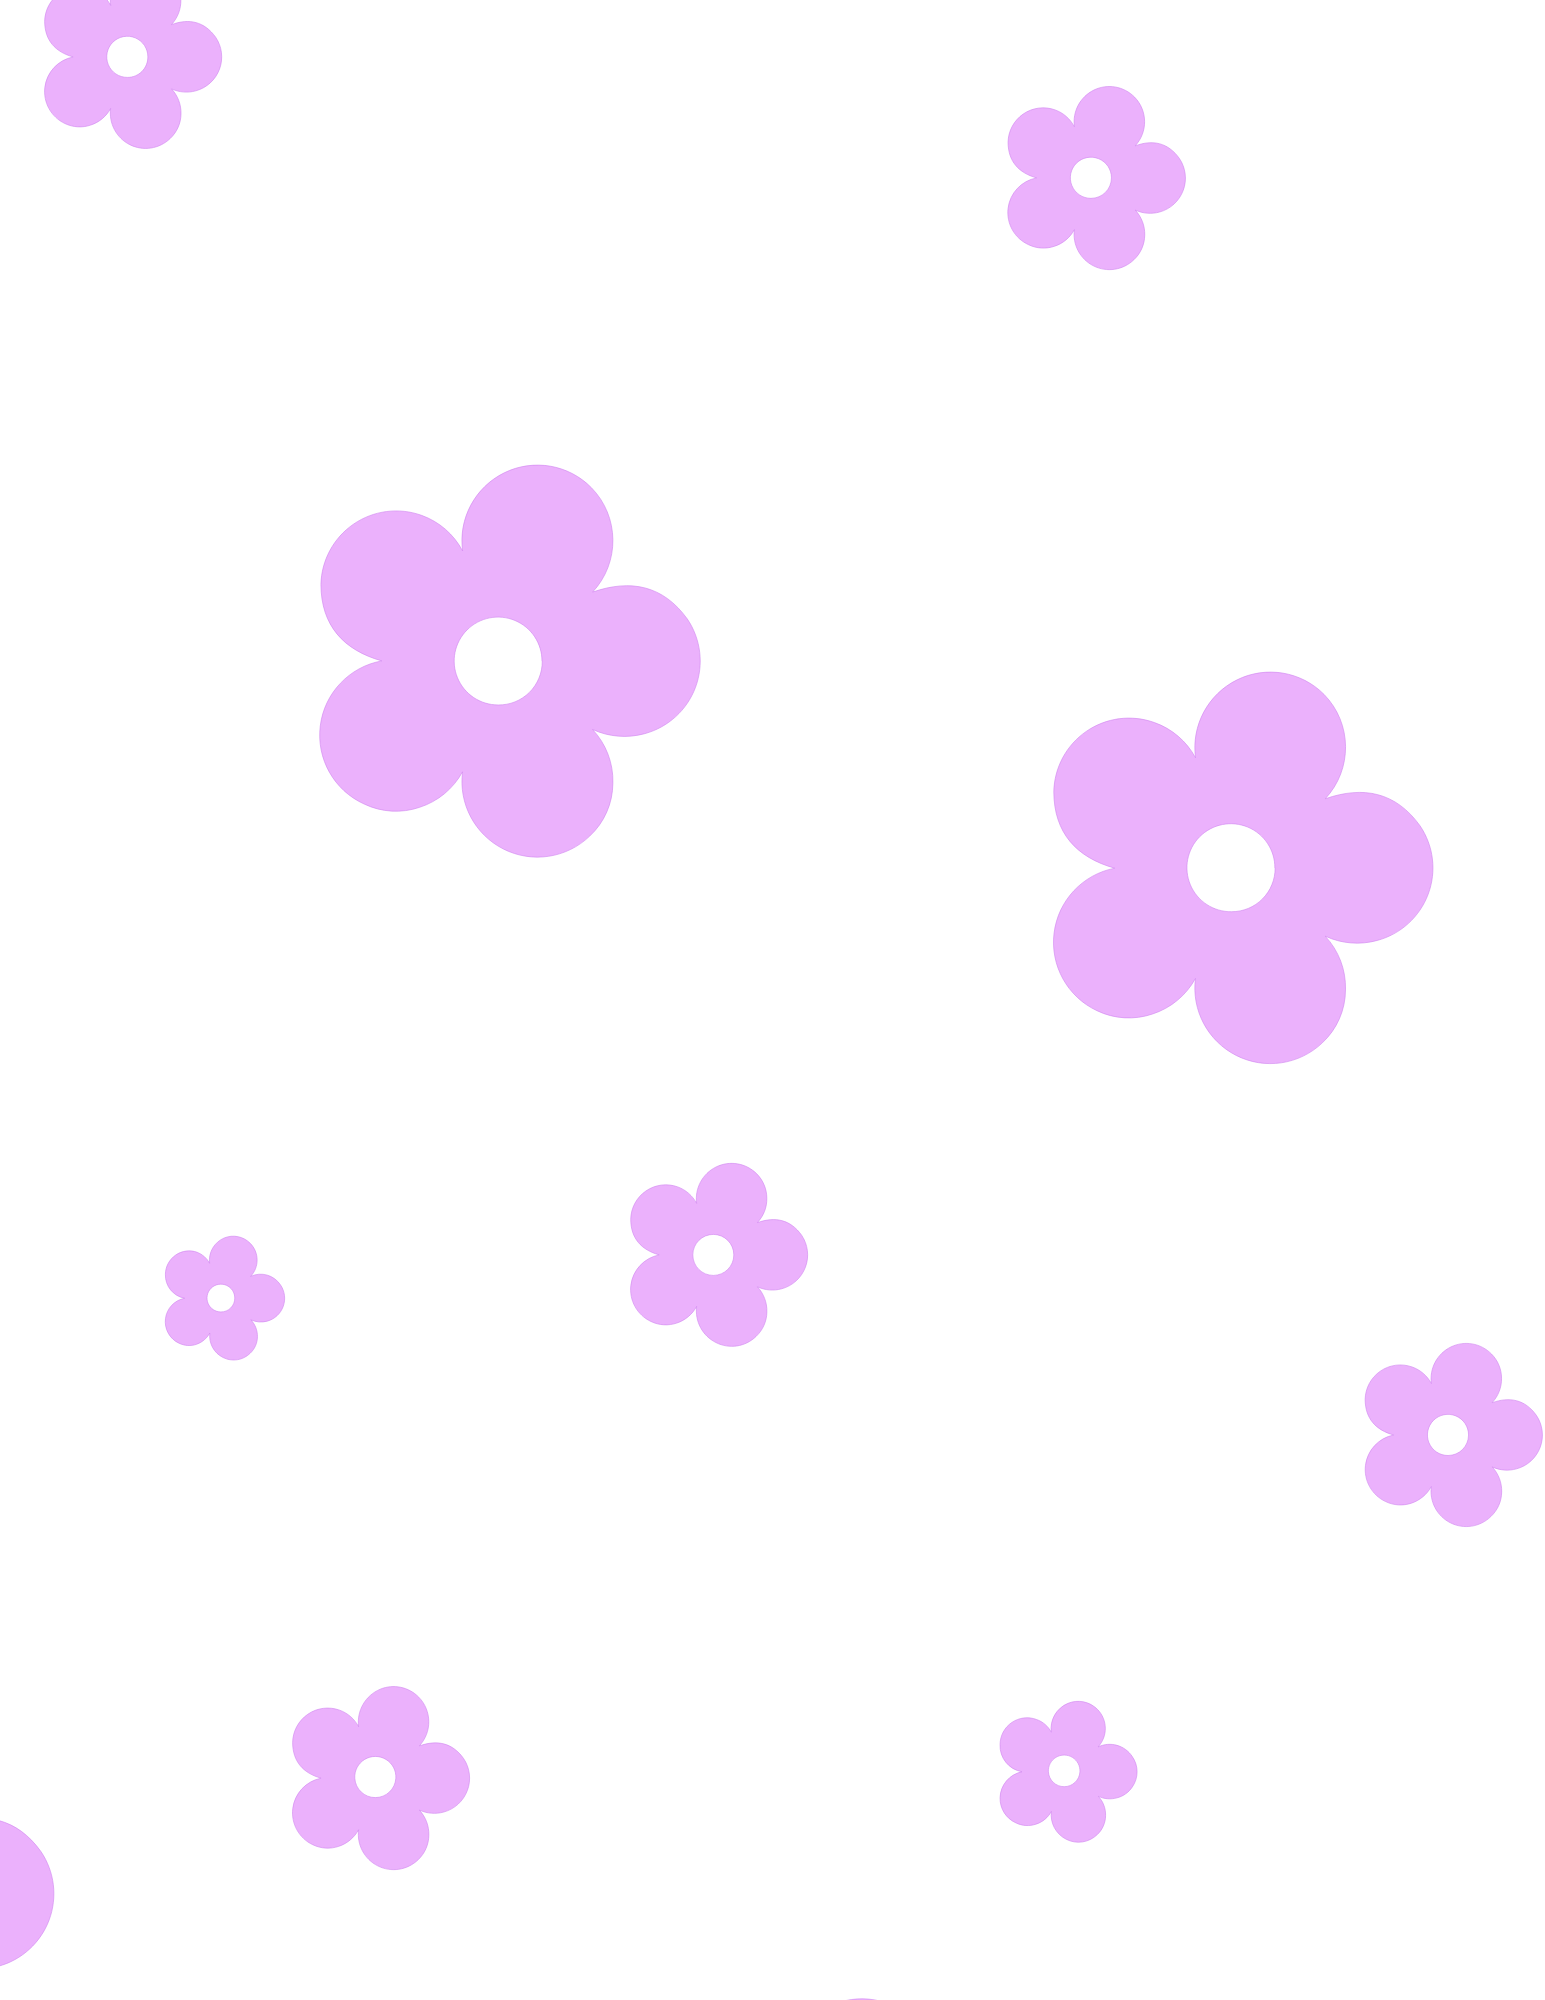
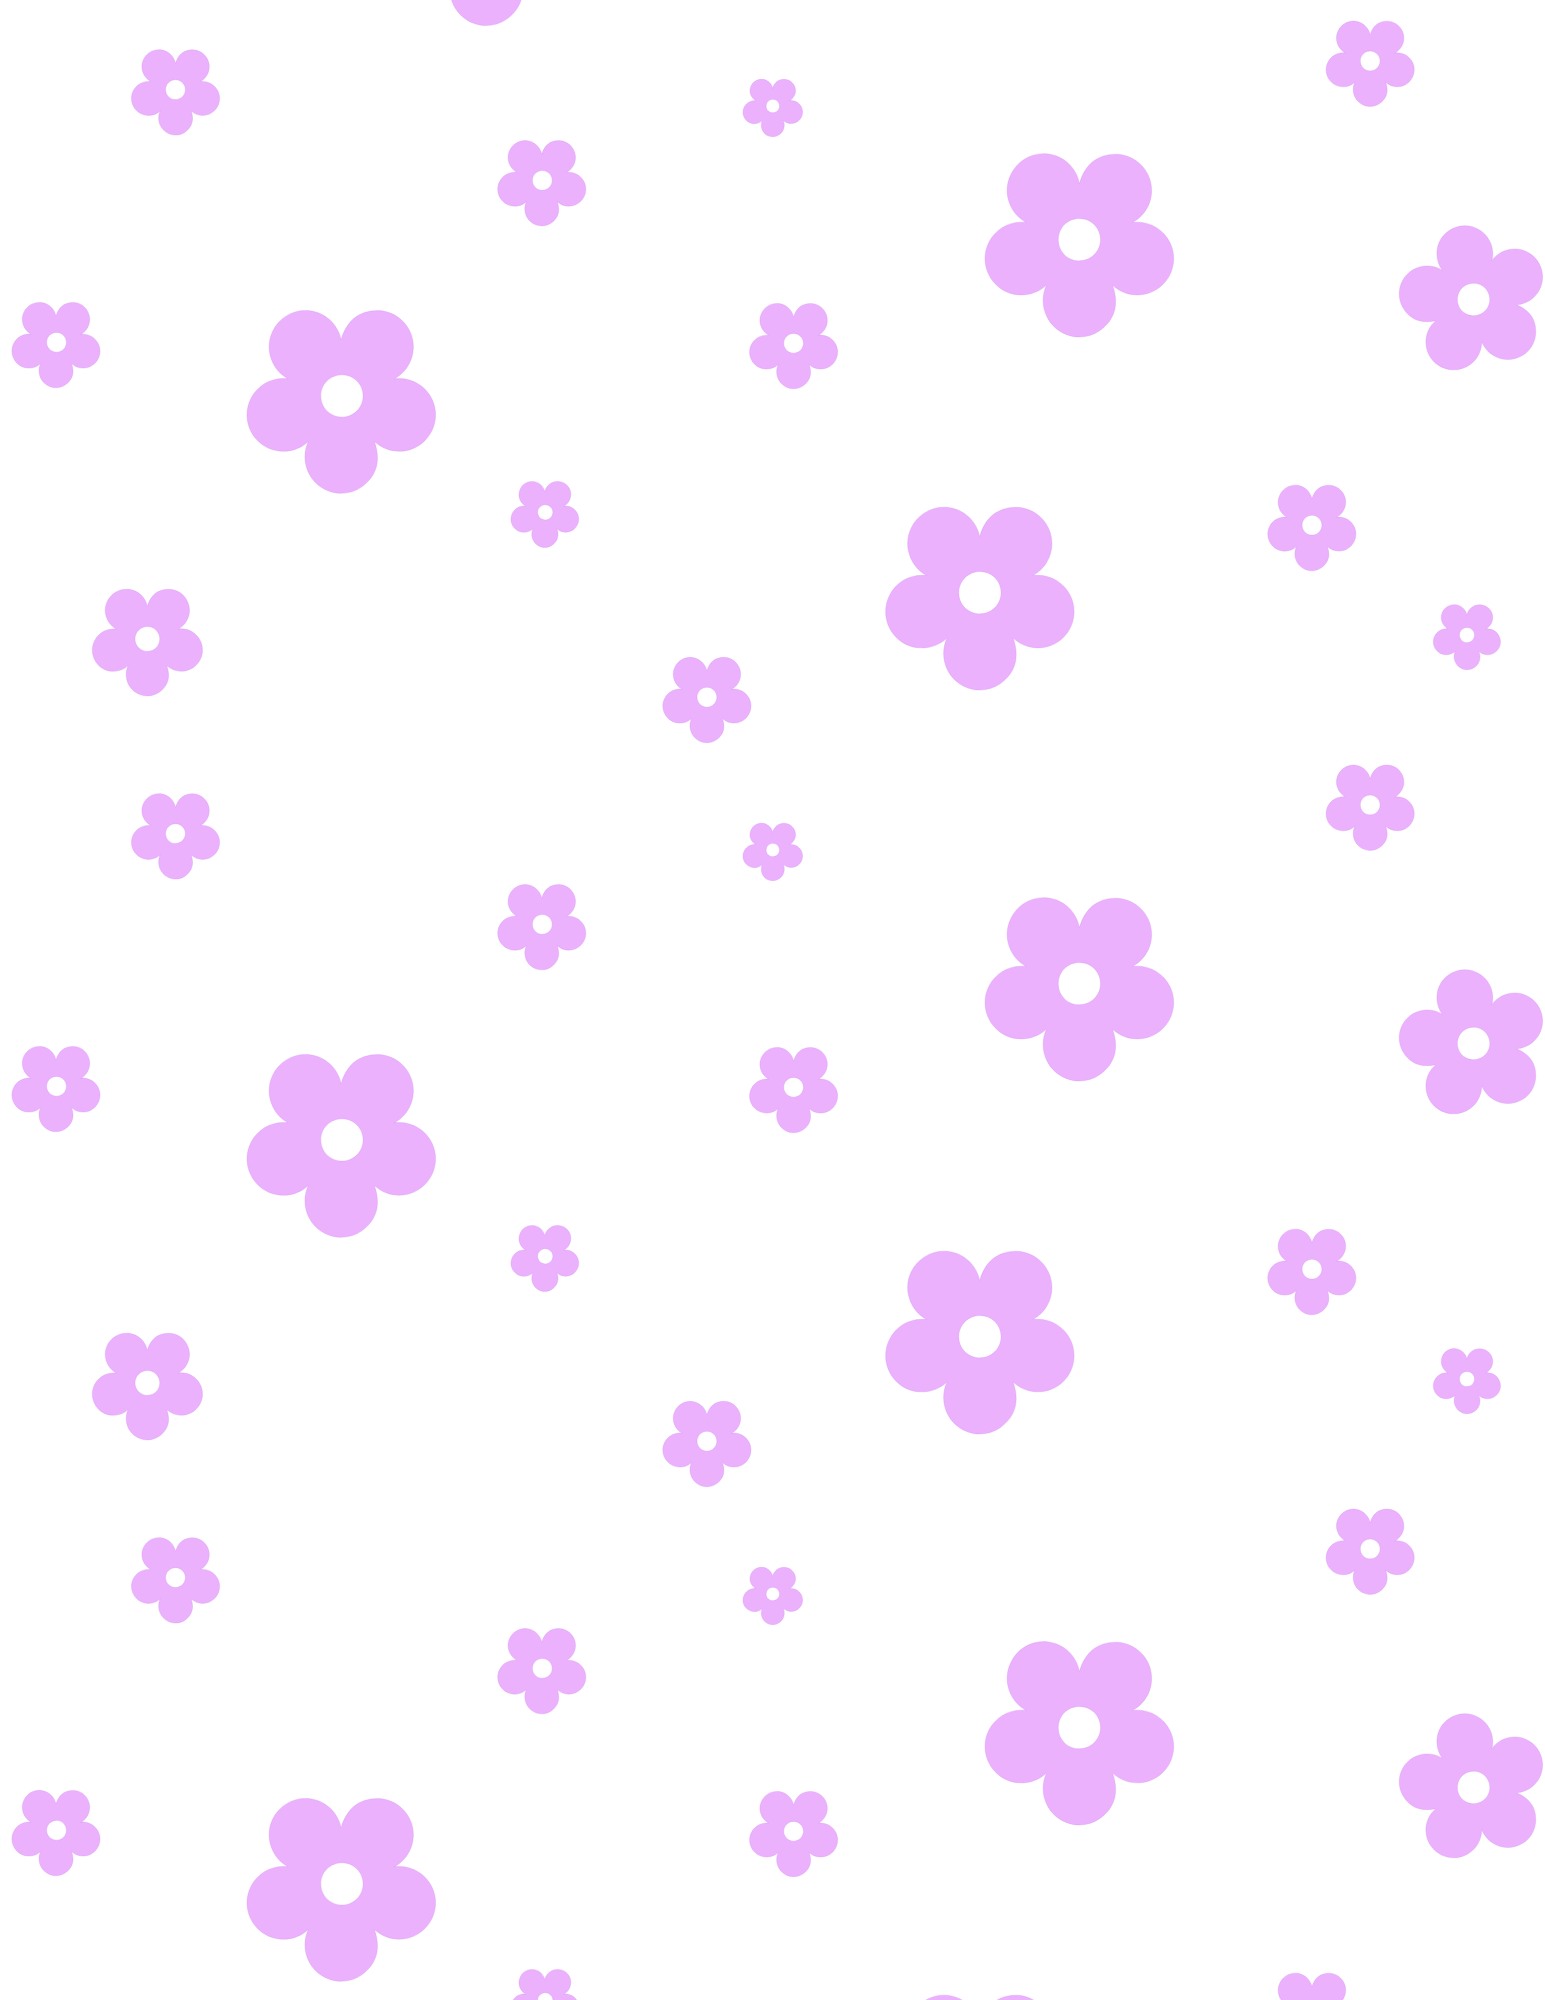
home text and footer

diff --git a/Home/index.css b/Home/index.css
@@ -49,7 +49,8 @@ nav {
     background-color: var(--darkPurp);
     position: fixed; /* sticky can work too */
     width: 100%;
-    z-index: 10; /* must be higher than hero */
+    z-index: 10;
+    box-shadow: 2px 2px 10px 2px gray;
 }
 .nav-left,
 .nav-right {
@@ -74,7 +75,6 @@ nav ul {
 nav li a {
     text-decoration: none;
     color: white;
-    font-weight: bold;
     font-size: 1.5rem;
     text-shadow:       
         -2px -2px 0 black,
@@ -99,6 +99,8 @@ nav li a:hover {
     padding-top: 70px; /* same as nav height */
     background-size: cover;
     background-position: center;
+    margin-bottom: 30px;
+    box-shadow: 2px 2px 10px 2px gray;
 }
 #hero-title{
     position: absolute;
@@ -119,6 +121,75 @@ nav li a:hover {
     right: 10%;
     
 }
+
+#home-section{
+    background-image: url("../Photos/2.png");
+    margin-top: 30px;
+    height: 600px;
+    width: 100%;
+    display: flex;            
+    justify-content: center;    
+    align-items: center;
+    box-shadow: 2px 2px 10px 2px gray;
+}
+
+#home-div{
+    display: flex;
+    justify-content: center;
+    align-items: center;
+    width: 80%;
+}
+
+#home-text {
+    background-color: white;
+    font-size: 30px;
+    width: 60%;
+    border-radius: 10px;
+    border: solid black 2px;
+    text-align: center;
+}
+
+footer {
+    display: flex;
+    flex-direction: column; /* stack vertically */
+    justify-content: center;
+    align-items: center;
+    height: auto; /* let it grow as needed */
+    padding: 20px 0;
+    background-color: var(--darkPurp);
+    box-shadow: 2px 2px 10px 2px gray;
+    gap: 10px; /* space between icons and text */
+}
+
+footer ul {
+    list-style: none;
+    display: flex;
+    justify-content: center;
+    align-items: center;
+    gap: 40px; /* space between icons */
+    padding: 0;
+    margin: 0;
+}
+
+footer i {
+    font-size: 40px;
+    color: white;
+    transition: color 0.3s;
+}
+
+footer i:hover {
+    color: var(--lightPurp);
+}
+
+footer p {
+    color: white;
+    font-size: 0.9rem;
+    margin-top: 5px;
+}
+
+
+
+
 
 /* Responsive Adjustments */
 @media (max-width: 768px) {

diff --git a/Home/index.html b/Home/index.html
@@ -5,6 +5,14 @@
     <meta name="viewport" content="width=device-width, initial-scale=1.0">
     <title>Abby's Portfolio</title>
     <link rel="stylesheet" type="text/css" href="./index.css">
+    <!-- Font Awesome -->
+    <link
+    rel="stylesheet"
+    href="https://cdnjs.cloudflare.com/ajax/libs/font-awesome/6.5.0/css/all.min.css"
+    integrity="sha512-..."
+    crossorigin="anonymous"
+    referrerpolicy="no-referrer"
+    />
 </head>
 <body>
     <section id="nav-section">
@@ -29,6 +37,26 @@
             <img id="hero-photo" src="../Photos/6.png">
         </div>
     </section>
+
+    <section id="home-section">
+        <div id="home-div">
+            <p id="home-text">lorem</p>
+        </div>
+    </section>
+
+    <footer id="footer">
+        <ul>
+            <li><i class="fa-brands fa-linkedin"></i></li>
+            <li><i class="fa-brands fa-github"></i></li>
+            <li><i class="fa-solid fa-envelope"></i></li>
+        </ul>
+       <p>&copy; <span id="currentYear"></span></p>
+       <script>
+            let date = new Date().getFullYear();
+            document.getElementById("currentYear").textContent = date;
+        </script>
+
+    </footer>
     
 </body>
 </html>
